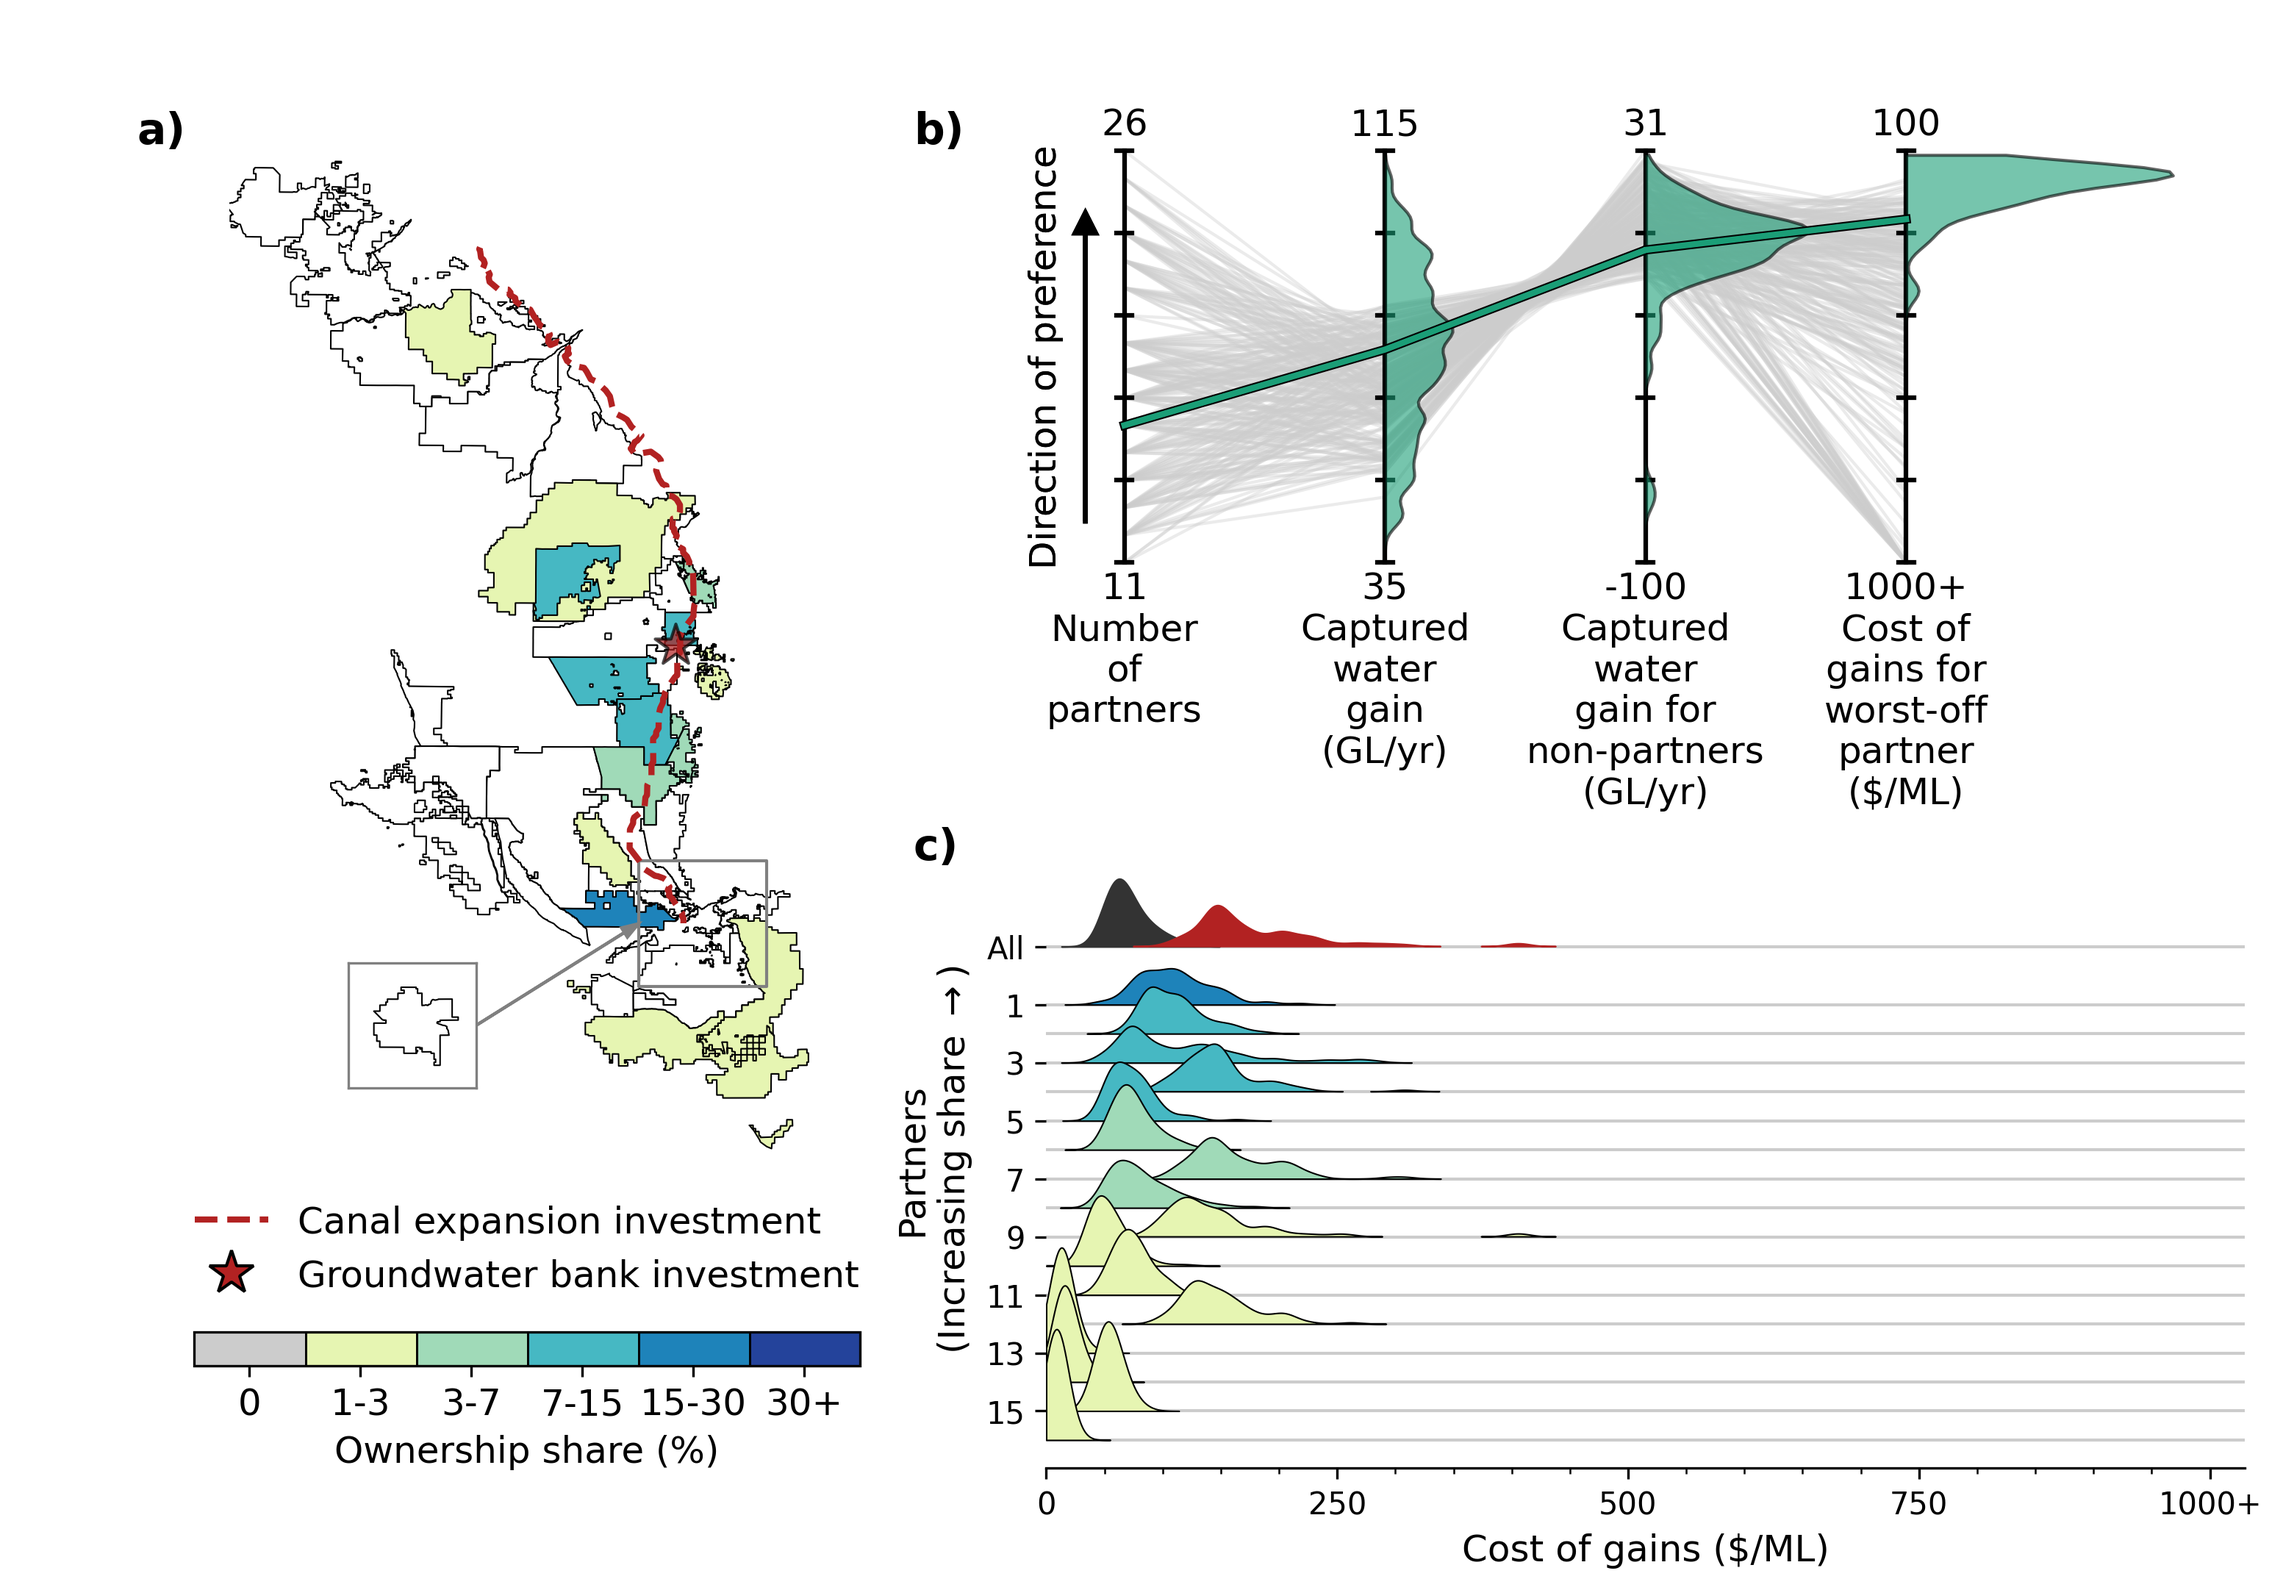
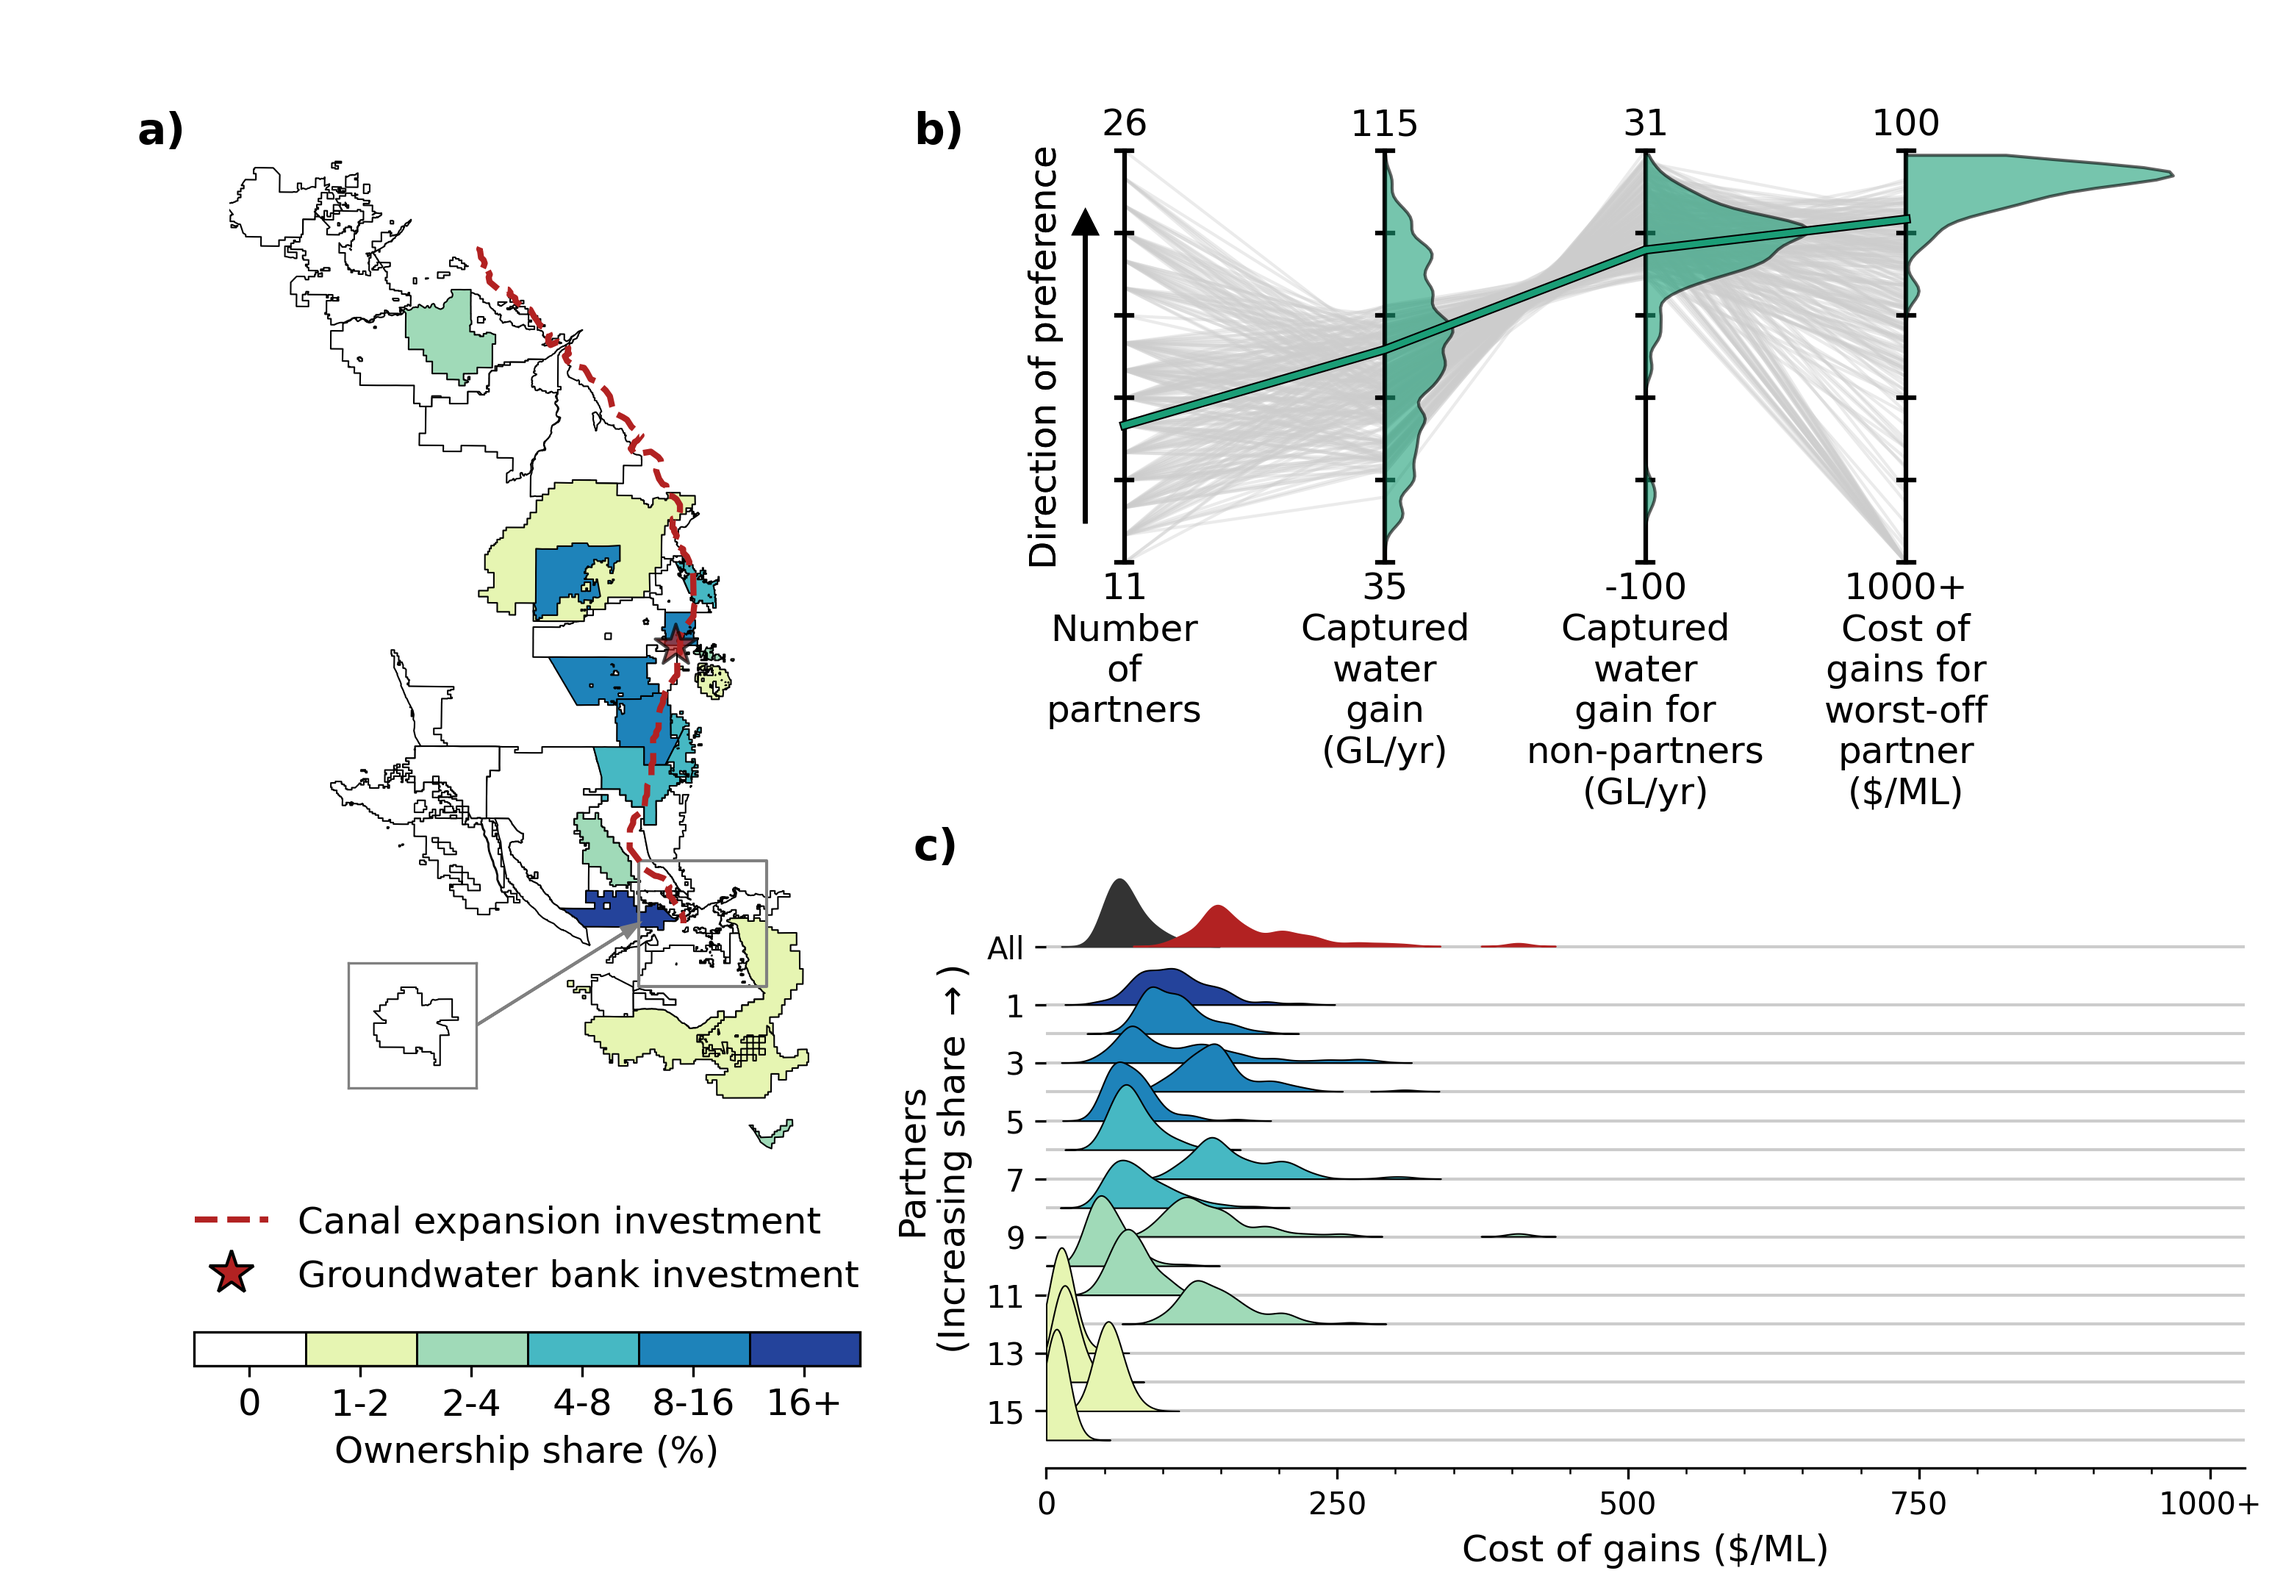
update figs

diff --git a/MORDM_experiment/paper1/fig_functions.py b/MORDM_experiment/paper1/fig_functions.py
@@ -799,11 +799,11 @@ def get_results_disagg_MC_district(soln_label, reeval_type='mhmm'):
 ### color palette for ownership share bins
 def get_ownership_share_colors():
     ### patches plot, showing shares in different solutions. use custom scale
-    nonpartnercolor = '0.8'
+    nonpartnercolor = 1
     cmap = cm.get_cmap('YlGnBu')
     oldcolors = cmap(np.linspace(0.15, 1, 6))
     newcolors = cmap(np.linspace(0, 1, 2560))
-    breaks = [int(2560 * b) for b in [0.001, 0.03, 0.07, 0.15, 0.3, 1]]
+    breaks = [int(2560 * b) for b in [0.001, 0.02, 0.04, 0.08, 0.16, 1]]
     newcolors[:breaks[0]] = [nonpartnercolor, nonpartnercolor, nonpartnercolor, 1]
     for i, b in enumerate(breaks[:-1]):
         newcolors[b:breaks[i + 1]] = oldcolors[i]
@@ -932,7 +932,7 @@ def plot_3part_partnership_performance(results_agg, soln_labels, columns, water_
     ### colorbar
     cb = plt.colorbar(shares_cmap_mappable_even, ax=ax, ticks=[1 / 12, 3 / 12, 5 / 12, 7 / 12, 9 / 12, 11 / 12],
                       fraction=0.1, orientation='horizontal', pad=0.1)
-    _ = cb.ax.set_xticklabels(['0', '1-3', '3-7', '7-15', '15-30', '30+', ], fontsize=fontsize)
+    _ = cb.ax.set_xticklabels(['0', '1-2', '2-4', '4-8', '8-16', '16+', ], fontsize=fontsize)
     _ = cb.set_label('Ownership share (%)', fontsize=fontsize)  # , labelpad=10)
 
     ### infra project legend
